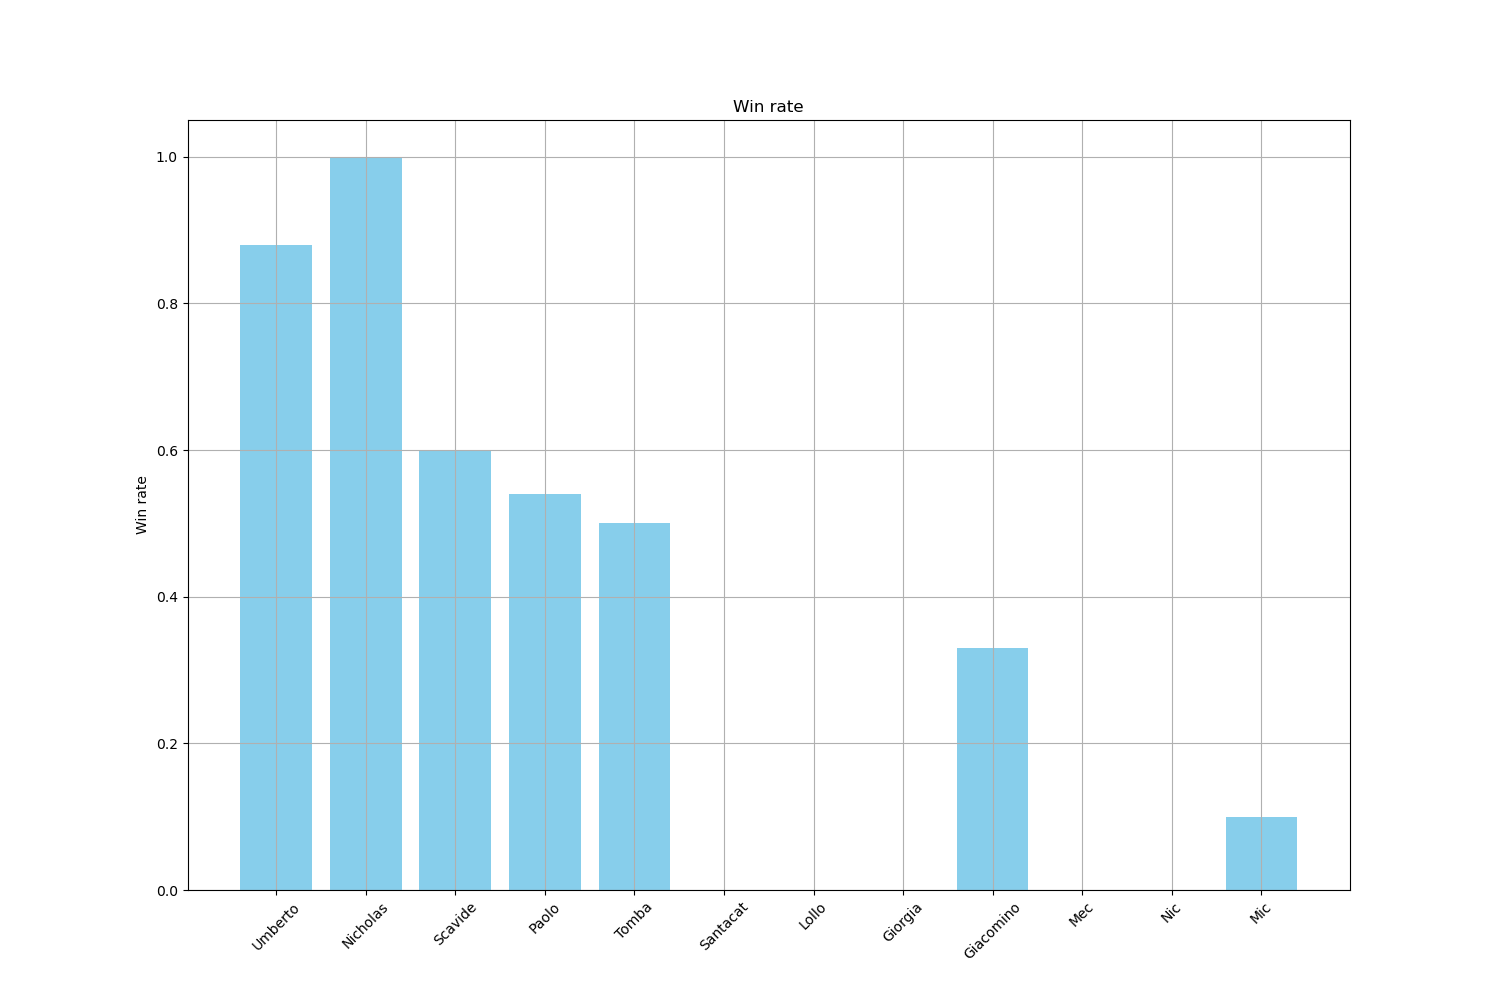
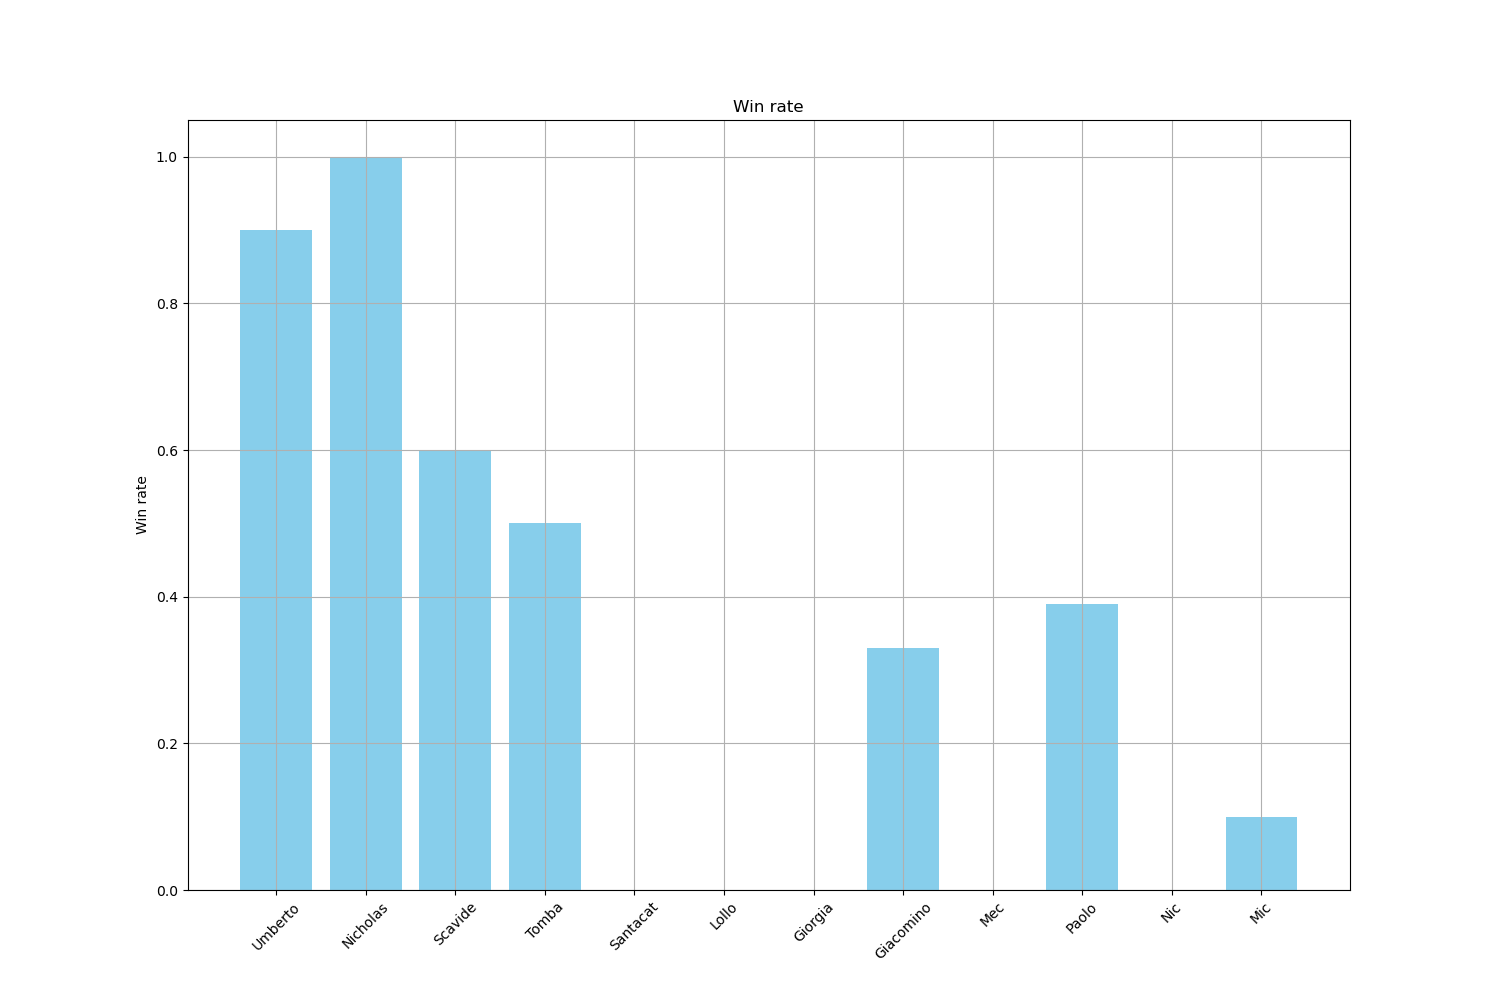
aggiungo il csv per le partite

diff --git a/main.py b/main.py
@@ -11,10 +11,15 @@ def update_data(player1: str = "Umberto", player2: str = "Paolo", score: int = 1
     with open('players.json') as f:
         data = json.load(f)
 
+    # Definisci il K-factor
+    K = 32
+
     # Aggiorna l'elo
-    get_new_elo(data, player1, player2, score)
+    get_new_elo(data, player1, player2, score, K)
 
     print(f"{player1} vs {player2}\nVittoria di {player1}\nElo aggiornati:\n{player1}: {data['players'][0]['rating']}\n{player2}: {data['players'][1]['rating']}")
+
+    # ------------------------ Save data ------------------------
 
     # sorta il dizionario
     data['players'] = sorted(data['players'], key=lambda x: x['rating'], reverse=True)
@@ -31,6 +36,18 @@ def update_data(player1: str = "Umberto", player2: str = "Paolo", score: int = 1
 
     # salva il dataframe
     df.to_csv('./results/rating.csv', index=False)
+
+    # ------------------------ Save new match ------------------------
+
+    # Aggiungi la partita al dataframe df_matches
+    df_matches = pd.read_csv('./results/matches.csv')
+
+    new_match = pd.DataFrame([{'Winner': player1, 'Loser': player2, 'Date': pd.Timestamp.now().date()}])
+    df_matches = pd.concat([df_matches, new_match], ignore_index=True)
+
+    df_matches.to_csv('./results/matches.csv', index=False)
+
+    # ------------------------ Plots ------------------------
 
     # Plotta gli elo
     plt.figure(figsize=(15,10))
